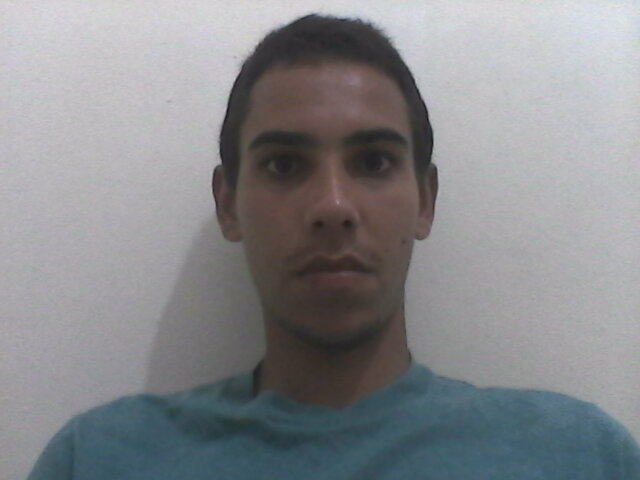
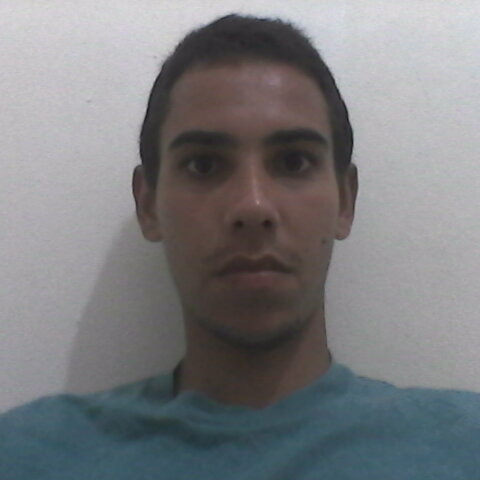
Acomoda las dimensiones de la foto de pefil

diff --git a/portafolio/css/main.css b/portafolio/css/main.css
@@ -72,8 +72,8 @@ nav li:hover a {
 
 #introduccion > img {
     border-radius: 50%; /* Borde redondeado */
-    height: 180px;
-    width: 250px;
+    height: 200px;
+    width: 200px;
 }
 
 .introduccion i {
